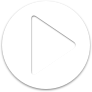
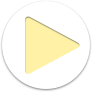
Play button

Changed region(s): [[0.2609, 0.1522, 0.8696, 0.8043]]

diff --git a/walk to circle/ViewController.swift b/walk to circle/ViewController.swift
@@ -58,7 +58,7 @@ class ViewController: UIViewController, MKMapViewDelegate {
 
     showCalloutAfterDelay(mapView.userLocation, delay: 1, {
       self.hideCalloutAfterDelay(self.mapView.userLocation, delay: 3)
-//      self.startButton.hidden = false;
+      self.startButton.hidden = false;
     })
 
     if playAfterZoomedToInitialLocation {

diff --git a/graphics/colors.md b/graphics/colors.md
@@ -1,0 +1,6 @@
+# Colors used in the app
+
+## Button color
+
+HEX: #FFD90E
+Alpha: 30%
